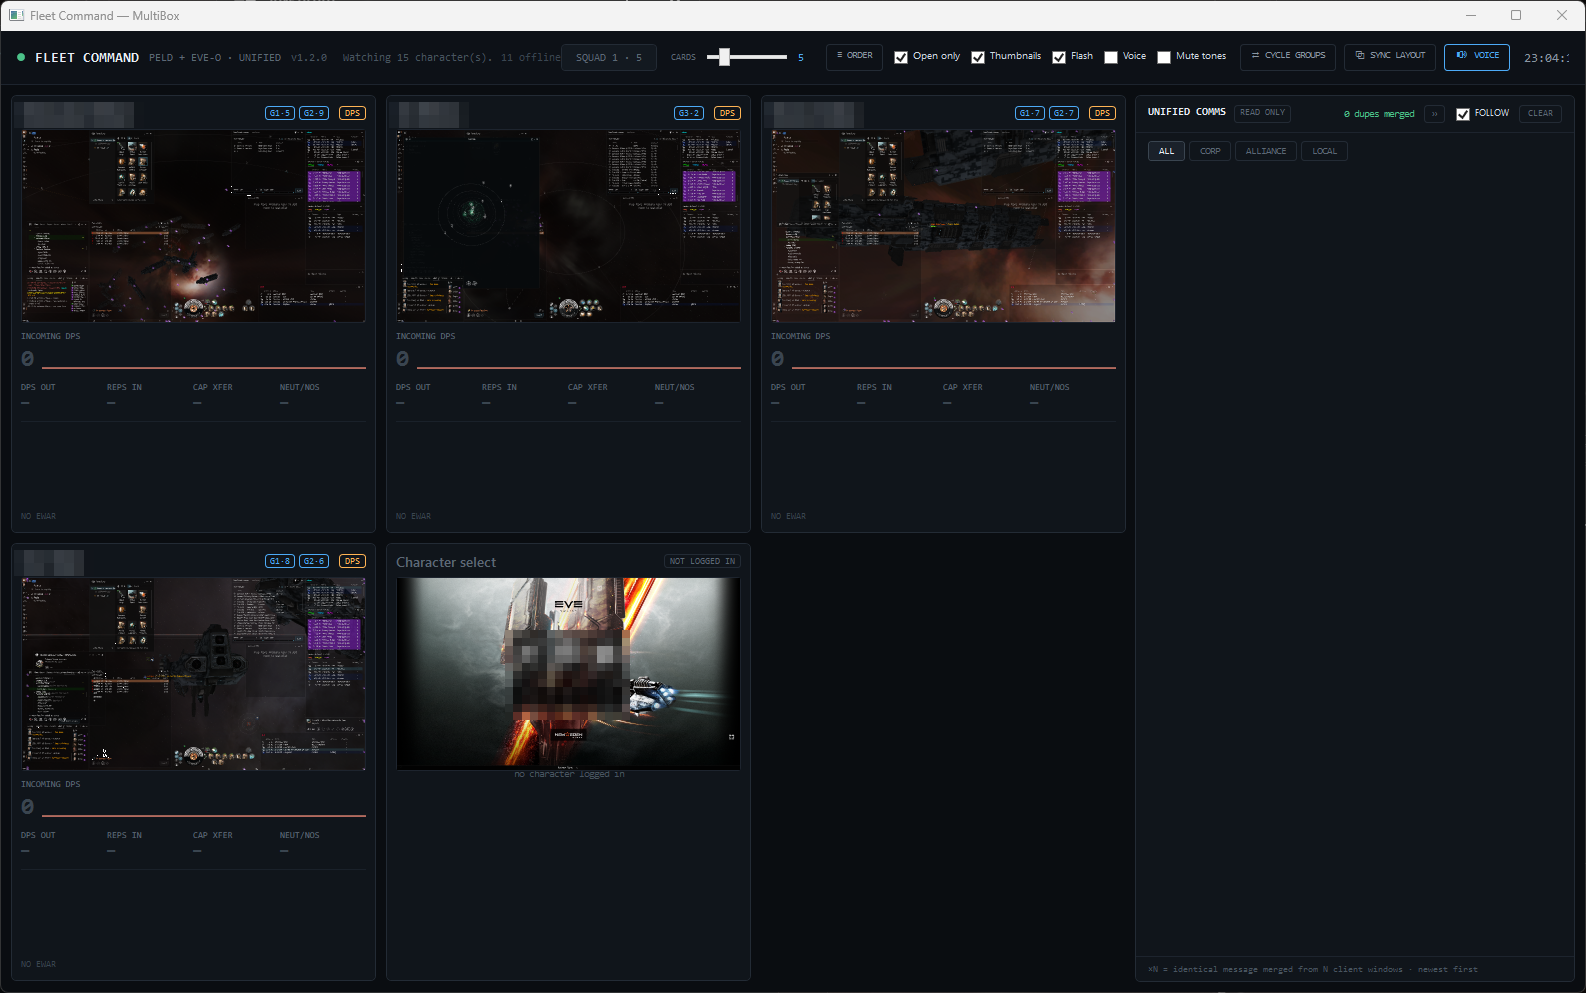
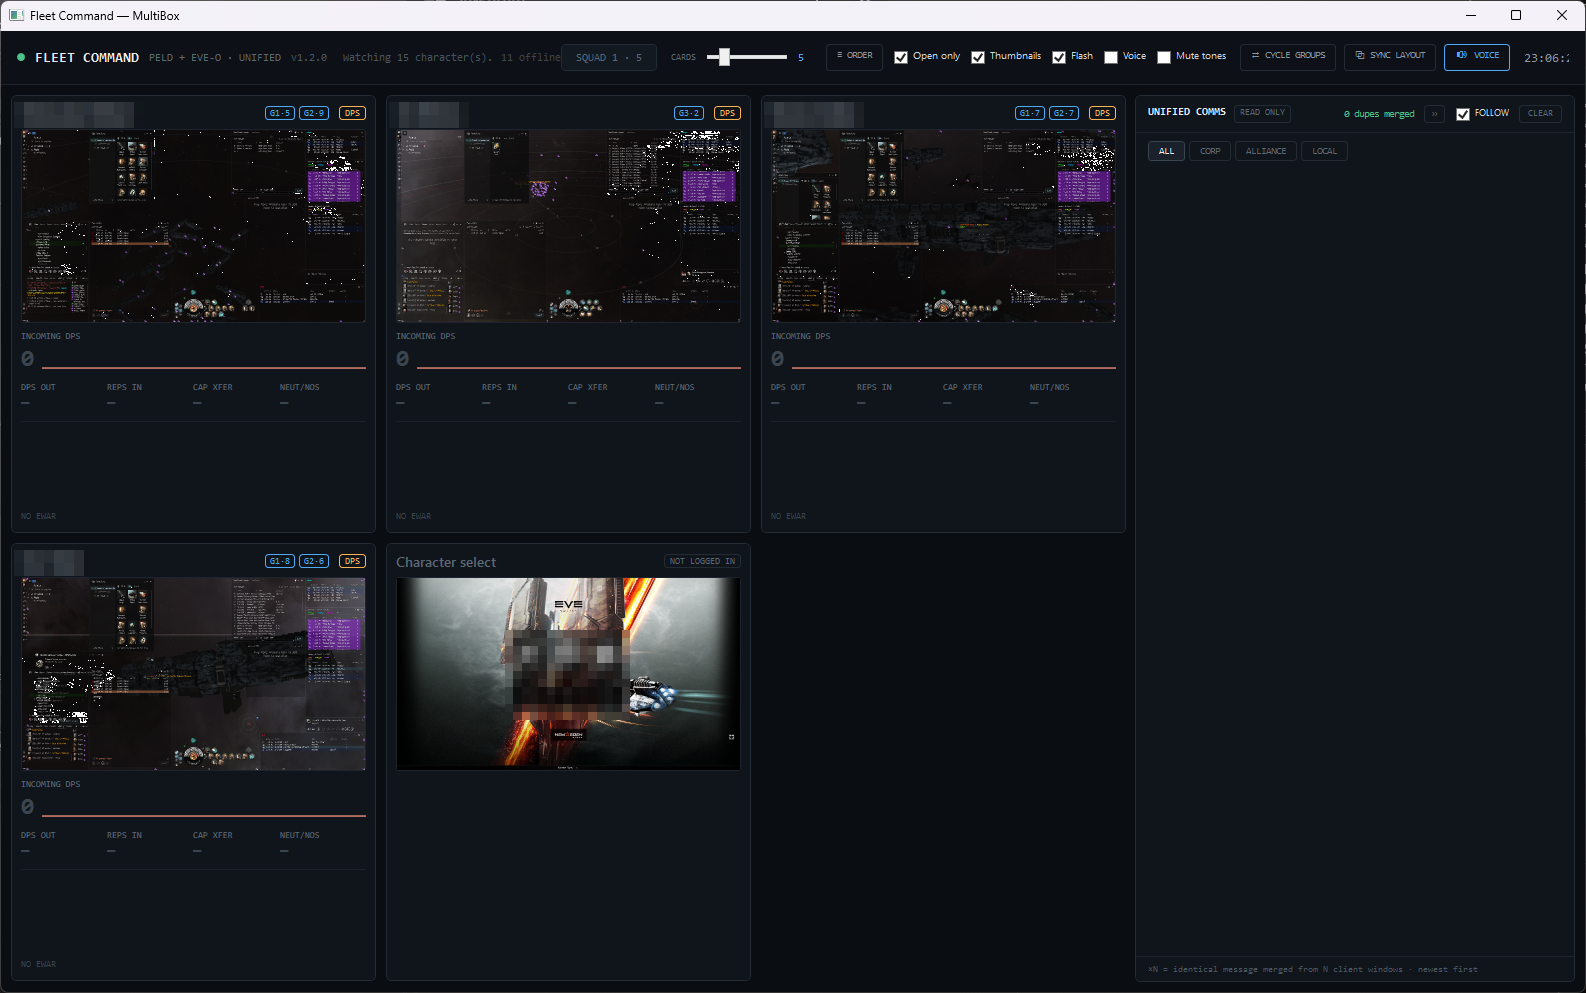
Review round 4: hide the idle card's placeholder text while previews are on
The 16:9 slot is top-aligned, so the centred "no character logged in" label poked out
under the live thumbnail and contradicted it. It now shows only with Thumbnails off,
where it is the card's only content. after.png retaken, names pixelated.

diff --git a/src/MultiBox.App/FleetWindow.xaml b/src/MultiBox.App/FleetWindow.xaml
@@ -449,10 +449,15 @@
                     <Grid x:Name="IdleThumbCell" Grid.Row="1" Margin="10,0,10,10" Cursor="Hand"
                           Background="Transparent" MouseLeftButtonUp="Thumbnail_Click"
                           ToolTip="Click to bring this client to the front">
+                        <!-- Only with previews off: with them on, the slot is top-aligned and a
+                             centred label would poke out under a live picture of the client. -->
                         <TextBlock Text="no character logged in" HorizontalAlignment="Center"
                                    VerticalAlignment="Center" FontFamily="{StaticResource Mono}"
                                    FontSize="10" Foreground="{x:Static local:Palette.TextFaint}"
-                                   IsHitTestVisible="False"/>
+                                   IsHitTestVisible="False"
+                                   Visibility="{Binding DataContext.ShowThumbnails,
+                                                RelativeSource={RelativeSource AncestorType=Window},
+                                                Converter={StaticResource Hide}}"/>
                         <!-- 16:9 and as large as the cell allows; the compositor draws into it. -->
                         <Border Tag="ThumbSlot" VerticalAlignment="Top" HorizontalAlignment="Center"
                                 CornerRadius="3" BorderThickness="1"
